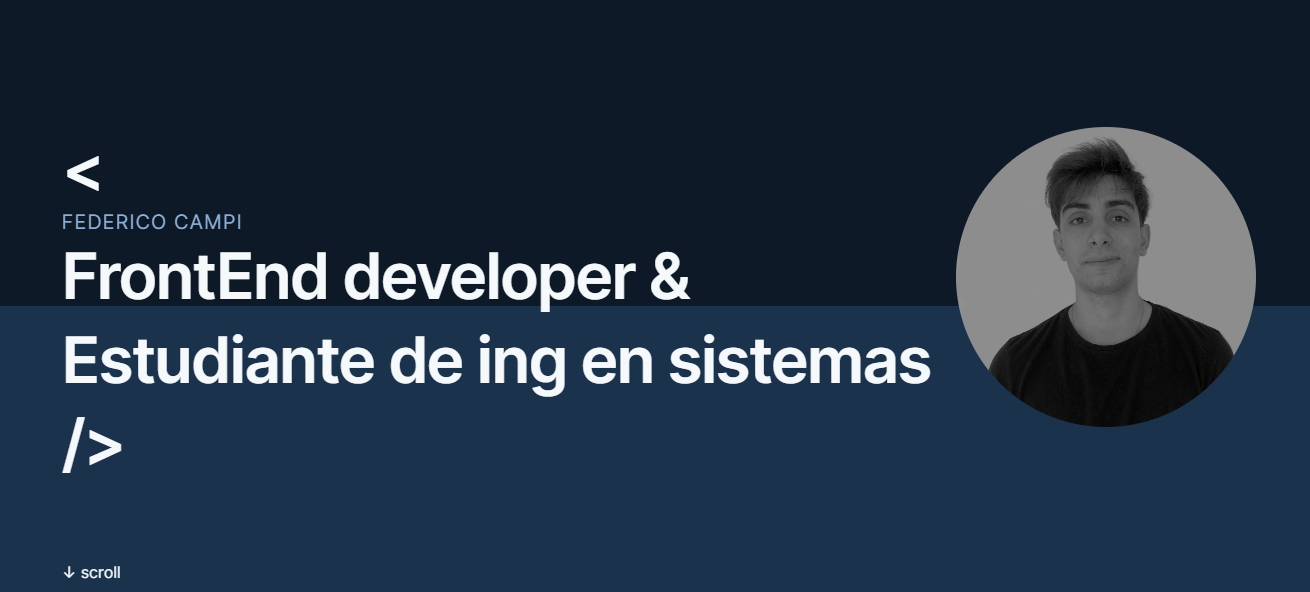
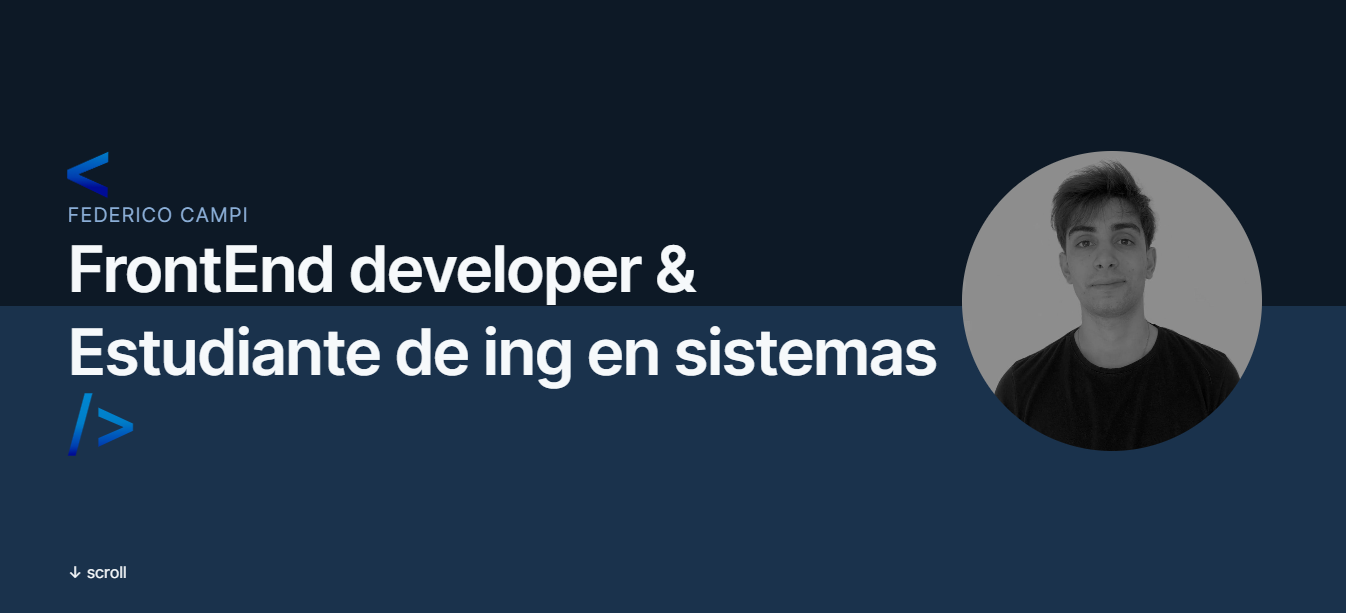
projects

Changed region(s): [[0.0, 0.2128, 1.0, 0.7905], [0.0611, 0.9122, 0.0916, 1.0]]

diff --git a/static/css/index.css b/static/css/index.css
@@ -311,6 +311,7 @@ body{
   filter: brightness(100%) grayscale(0);
 }
 
+
 .fondoGH:hover{
   background-color: white;
   border-radius: 25px;
@@ -711,6 +712,14 @@ footer {
     padding: 5px;
     background: black;
     border-radius: 10px;
+  }
+  .header-container img{
+    width: 33px;
+    height: 38px;
+  }
+  .nav-logo img{
+    width: 63px;
+    height: 46px;
   }
 }
 

diff --git a/index.html b/index.html
@@ -763,7 +763,7 @@
           </p>
         </div>
         <div class="item__container">
-          <div class="item__tech">
+          <div class="item__tech scroll-in">
             <a
               title="" target="_blank" rel="noopener">
               <img src="./static/images/techs/html-5.png" alt="html5">
